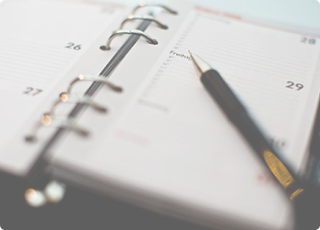
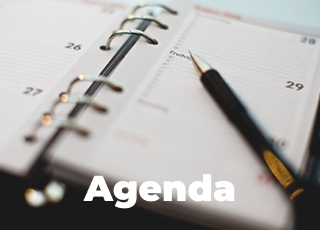
feat: add murales section

diff --git a/src/Routes/router.js b/src/Routes/router.js
@@ -8,49 +8,49 @@ export default function Router() {
   return (
     <BrowserRouter>
       <Routes>
-        //Rutas de la seccion de inicio//
-        // Ruta de acceso a la pagina de inicio
+        {/* //Rutas de la seccion de inicio//
+        // Ruta de acceso a la pagina de inicio */}
         <Route path="/" element={<Layout><Pagina.Inicio/></Layout>}/>
-        // Ruta de acceso a la pagina de bienvenida
+        {/* // Ruta de acceso a la pagina de bienvenida */}
         <Route path="/Bienvenida" element={<Layout><Pagina.Bienvenida/></Layout>}/>
-        //Ruta de acceso a la pagina de Directorio
+        {/* //Ruta de acceso a la pagina de Directorio */}
         <Route path="/Directorio" element={<Layout><Pagina.Directorio/></Layout>}/>
-        //Ruta de acceso a la pagina de HorarioAtencion
+        {/* //Ruta de acceso a la pagina de HorarioAtencion */}
         <Route path="/HorarioAtencion" element={<Layout><Pagina.HorarioAtencion/></Layout>}/>
-        //Ruta de acceso a la pagina de MarcoJuridico
+        {/* //Ruta de acceso a la pagina de MarcoJuridico */}
         <Route path="/MarcoJuridico" element={<Layout><Pagina.MarcoJuridico/></Layout>}/>
-        //Ruta de acceso a la pagina de Nosotros
+        {/* //Ruta de acceso a la pagina de Nosotros */}
         <Route path="/Nosotros" element={<Layout><Pagina.Nosotros/></Layout>}/>
 
-        //Rutas de la seccion de Servicios//
+        {/* //Rutas de la seccion de Servicios// */}
 
-        // Ruta de acceso a la pagina de Biblioteca
+        {/* // Ruta de acceso a la pagina de Biblioteca */}
         <Route path="/Biblioteca" element={<Layout><Pagina.Biblioteca/></Layout>}/>
-        //Ruta de acceso a la pagina de Centro de computo        
+        {/* //Ruta de acceso a la pagina de Centro de computo         */}
         <Route path="/CentroComputo" element={<Layout><Pagina.CentroComputo/></Layout>}/>
-        //Ruta de acceso a la pagina de Talleres
+        {/* //Ruta de acceso a la pagina de Talleres */}
         <Route path="/Talleres" element={<Layout><Pagina.Talleres/></Layout>}/>
-        //Ruta de acceso a la pagina de Instalaciones
+        {/* //Ruta de acceso a la pagina de Instalaciones */}
         <Route path="/Instalaciones" element={<Layout><Pagina.Instalaciones/></Layout>}/>
-        //Ruta de acceso a la pagina de Sitios de interes
+        {/* //Ruta de acceso a la pagina de Sitios de interes */}
         <Route path="/SitiosInteres" element={<Layout><Pagina.SitiosInteres/></Layout>}/>
-        //Ruta de acceso a la pagina de Visitas
+        {/* //Ruta de acceso a la pagina de Visitas */}
         <Route path="/Visitas" element={<Layout><Pagina.Visitas/></Layout>}/>
 
-        //Rutas de la seccion de Comunicacion//
-        //Ruta de acceso a la pagina de Centro de computo        
+        {/* //Rutas de la seccion de Comunicacion//
+        //Ruta de acceso a la pagina de Centro de computo         */}
         <Route path="/Boletines" element={<Layout><Pagina.Boletines/></Layout>}/>
-        //Ruta de acceso a la pagina de Talleres
+        {/* //Ruta de acceso a la pagina de Talleres */}
         <Route path="/Triptico" element={<Layout><Pagina.Triptico/></Layout>}/>
-        //Ruta de acceso a la pagina de Instalaciones
+        {/* //Ruta de acceso a la pagina de Instalaciones */}
         <Route path="/EjeRadio" element={<Layout><Pagina.EjeRadio/></Layout>}/>
 
-        //Rutas de la seccion de Dependencias//
-        //Ruta de acceso a la pagina de Dependencias        
+        {/* //Rutas de la seccion de Dependencias//
+        //Ruta de acceso a la pagina de Dependencias         */}
         <Route path="/Dependencias" element={<Layout><Pagina.Dependencias/></Layout>}/>
 
-        //Rutas de la seccion de Transparencia//
-        //Ruta de acceso a la pagina de Dependencias        
+        {/* //Rutas de la seccion de Transparencia//
+        //Ruta de acceso a la pagina de Dependencias*/}
         <Route path="/AvisoPrivacidad" element={<Layout><Pagina.Transparencia/></Layout>}/>
 
       </Routes>

diff --git a/src/Pages/SeccionInicio/Inicio/inicio.js b/src/Pages/SeccionInicio/Inicio/inicio.js
@@ -4,14 +4,16 @@ import ReactPlayer from "react-player";
 import Carrusel from "../../../Components/Carousels/carousels";
 import LeftArrow from "../../../sources/svg/left-arrow.svg";
 import RightArrow from "../../../sources/svg/right-arrow.svg";
-import SpotifyImage from "../../../sources/images/spotify.png";
-import Murales from "../../../sources/images/murales.png";
-import Agenda from "../../../sources/images/agenda.png";
-import ImgGallery from "../../../sources/images/imgGallery.png";
+import { posters } from "../../../sources/utilities/PosterTalleres/posterTalleres";
+import SpotifyImage from "../../../sources/images/Spotify.png";
+import Murales from "../../../sources/images/Murales.jpg";
+import Agenda from "../../../sources/images/Agenda.png";
+import ImgGallery from "../../../sources/images/ImgGallery.png";
+import { NavLink } from "react-router-dom";
 
 export default function Inicio() {
   const handlePrevImage = () => {
-    console.log("prev");
+    console.log(posters);
   };
   const handleNextImage = () => {
     console.log("Next");
@@ -39,7 +41,7 @@ export default function Inicio() {
             />
           </div>
           <img
-            src="http://gomezmorin.queretaro.gob.mx/images/ciclo%20de%20cine235x377.jpg?crc=3894128011"
+            src="http://gomezmorin.queretaro.gob.mx/images/stopmotion237x381.jpg?crc=220849467"
             alt="poster"
             className="prev-poster"
           />
@@ -65,10 +67,18 @@ export default function Inicio() {
           <div className="inicio-galerias">
             <h2 className="inicio-galerias-titulo">Galerias y mas</h2>
             <div className="inicio-galerias-imagenes">
-              <img src={Murales} alt="poster" />
-              <img src={SpotifyImage} alt="poster" />
-              <img src={ImgGallery} alt="poster" />
-              <img src={Agenda} alt="poster" />
+              <NavLink>
+                <img src={Murales} alt="poster" />
+              </NavLink>
+              <NavLink to="https://open.spotify.com/show/0WQWcsCIr3ItQSGAM049Yd?si=x7olq0uQT-mgocv6ga2VHA&utm_source=copy-link&nd=1">
+                <img src={SpotifyImage} alt="poster" />
+              </NavLink>
+              <NavLink>
+                <img src={ImgGallery} alt="poster" />
+              </NavLink>
+              <NavLink>
+                <img src={Agenda} alt="poster" />
+              </NavLink>
             </div>
           </div>
           <div className="inicio-sobre-nosotros">
@@ -101,12 +111,12 @@ export default function Inicio() {
             <h2 className="inicio-ubicacion-titulo">¿Como llegar?</h2>
             <div className="inicio-ubicacion-mapa">
               <iframe
+                title="Main youtube video"
                 src="https://www.google.com/maps/embed?pb=!1m18!1m12!1m3!1d2641.0758873966793!2d-100.38664790830697!3d20.586205968935488!2m3!1f0!2f0!3f0!3m2!1i1024!2i768!4f13.1!3m3!1m2!1s0x85d344d3acf867bd%3A0x76f4f9ea42a59fa8!2sCentro%20Educativo%20Cultural%20del%20Estado%20de%20Quer%C3%A9taro!5e0!3m2!1ses!2smx!4v1731037929064!5m2!1ses!2smx"
                 width="100%"
                 height="100%"
                 allowfullscreen=""
                 loading="lazy"
-                referrerpolicy="no-referrer-when-downgrade"
               ></iframe>
             </div>
           </div>

diff --git a/src/Pages/SeccionInicio/Inicio/inicio.css b/src/Pages/SeccionInicio/Inicio/inicio.css
@@ -96,6 +96,22 @@
     display: none;
   }
 }
+
+@media (max-width: 344px) {
+  .posters .current-poster{
+    width: 142px;
+    height: 228px;
+  }
+  .prev-poster,.next-poster{
+    display: none;
+  }
+  .inicio-sobre-nosotros-video{
+    width: 40%;
+    height: 280px;
+   
+  }
+
+}
 /* Estilos correspondientes a la galeria de imagenes */
 .inicio-galerias{
   display: flex;

diff --git a/src/Layout/LayoutInicio/layout.js b/src/Layout/LayoutInicio/layout.js
@@ -26,7 +26,7 @@ export default function Layout({ children }) {
         <NavBar />
       </div>
       <div className="content">
-        {location.pathname !== "/" && bannerImage && (
+        {location.pathname !== "/" && location.pathname !== "/Murales" && bannerImage && (
           <>
             <div className="banner">
               <img

diff --git a/src/Pages/SeccionInicio/Bienvenida/bienvenida.css b/src/Pages/SeccionInicio/Bienvenida/bienvenida.css
@@ -4,7 +4,7 @@
   justify-content: start;
   align-items: start;
   height: 100%;
-  padding: 3rem 0rem 3rem 4rem;
+  padding: 3rem 3rem 3rem 4rem;
 }
 
 .bienvenida p {
@@ -21,6 +21,7 @@
   align-items: center;
 }
 .image-1 img {
-  width: 50%;
+  margin-top: 20px;
+  width: 350px;
   height: 100%;
 }

diff --git a/src/sources/utilities/PosterTalleres/posterTalleres.js b/src/sources/utilities/PosterTalleres/posterTalleres.js
@@ -1,4 +1,4 @@
-import React from "react";
+
 
 export const posters =[
     {
